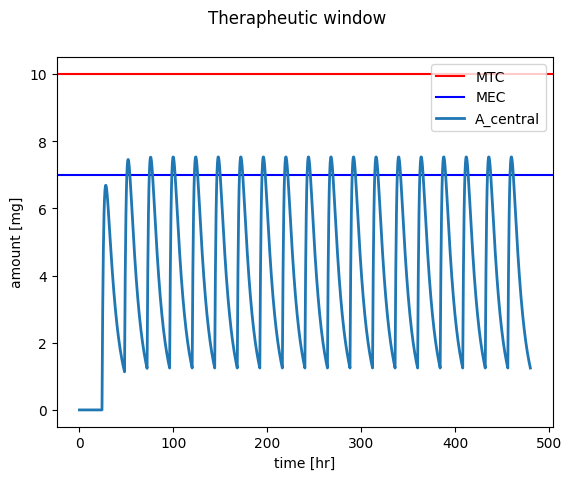
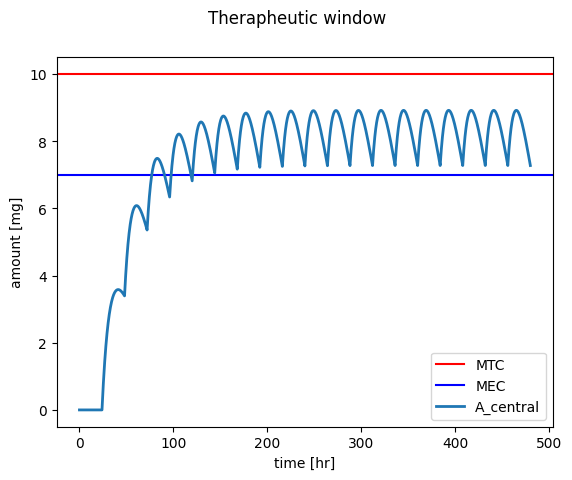
Built site for gh-pages

Changed region(s): [[0.1486, 0.125, 0.951, 0.8125], [0.8322, 0.8438, 0.951, 0.875], [0.743, 0.8438, 0.8024, 0.875]]

diff --git a/notebooks/course/05_multiple_dosing.html b/notebooks/course/05_multiple_dosing.html
@@ -433,7 +433,7 @@ pre > code.sourceCode > span > a:first-child::before { text-decoration: underlin
 <figcaption>Absorption Elimination Model</figcaption>
 </figure>
 </div>
-<div id="6e87423c" class="cell" data-execution_count="7">
+<div id="6e87423c" class="cell" data-execution_count="1">
 <div class="sourceCode cell-code" id="cb1"><pre class="sourceCode python code-with-copy"><code class="sourceCode python"><span id="cb1-1"><a href="#cb1-1" aria-hidden="true" tabindex="-1"></a><span class="im">import</span> numpy <span class="im">as</span> np</span>
 <span id="cb1-2"><a href="#cb1-2" aria-hidden="true" tabindex="-1"></a><span class="im">from</span> scipy.integrate <span class="im">import</span> odeint</span>
 <span id="cb1-3"><a href="#cb1-3" aria-hidden="true" tabindex="-1"></a><span class="im">from</span> matplotlib <span class="im">import</span> pylab <span class="im">as</span> plt</span>
@@ -495,7 +495,7 @@ pre > code.sourceCode > span > a:first-child::before { text-decoration: underlin
 <span id="cb1-59"><a href="#cb1-59" aria-hidden="true" tabindex="-1"></a>    df_all <span class="op">=</span> pd.concat(dfs)</span>
 <span id="cb1-60"><a href="#cb1-60" aria-hidden="true" tabindex="-1"></a>    <span class="cf">return</span> df_all</span></code><button title="Copy to Clipboard" class="code-copy-button"><i class="bi"></i></button></pre></div>
 </div>
-<div id="9f2d011b" class="cell" data-execution_count="8">
+<div id="9f2d011b" class="cell" data-execution_count="2">
 <div class="sourceCode cell-code" id="cb2"><pre class="sourceCode python code-with-copy"><code class="sourceCode python"><span id="cb2-1"><a href="#cb2-1" aria-hidden="true" tabindex="-1"></a><span class="co"># run simulation and plot results</span></span>
 <span id="cb2-2"><a href="#cb2-2" aria-hidden="true" tabindex="-1"></a>Dose_A <span class="op">=</span> <span class="fl">10.0</span>  <span class="co"># [mg]</span></span>
 <span id="cb2-3"><a href="#cb2-3" aria-hidden="true" tabindex="-1"></a>ka <span class="op">=</span> <span class="fl">0.5</span>  <span class="co"># [1/hr]</span></span>
@@ -544,27 +544,25 @@ pre > code.sourceCode > span > a:first-child::before { text-decoration: underlin
 <p>Monitoring drug levels in the body is often required for these drugs, and dosages may need to be adjusted based on individual patient response, metabolism, and excretion rates. This is especially relevant in multiple dosing regimens where the aim is to maintain a steady-state concentration of the drug within the therapeutic window.</p>
 <p>In summary, the therapeutic window is critical in drug therapy. It provides a guideline for effective and safe drug dosages. Staying within this window helps to achieve the therapeutic benefits of the drug while minimizing the risk of side effects and toxicity.</p>
 <p>We add the <strong>MEC</strong> and <strong>MTC</strong> lines to see if we can achieve the therapeutic range.</p>
-<div id="3db9f6d3" class="cell" data-execution_count="12">
-<div class="sourceCode cell-code" id="cb3"><pre class="sourceCode python code-with-copy"><code class="sourceCode python"><span id="cb3-1"><a href="#cb3-1" aria-hidden="true" tabindex="-1"></a><span class="co"># plot results</span></span>
-<span id="cb3-2"><a href="#cb3-2" aria-hidden="true" tabindex="-1"></a></span>
-<span id="cb3-3"><a href="#cb3-3" aria-hidden="true" tabindex="-1"></a><span class="co"># run simulation and plot results</span></span>
-<span id="cb3-4"><a href="#cb3-4" aria-hidden="true" tabindex="-1"></a>Dose_A <span class="op">=</span> <span class="dv">10</span>  <span class="co"># [mg]</span></span>
-<span id="cb3-5"><a href="#cb3-5" aria-hidden="true" tabindex="-1"></a>ka <span class="op">=</span> <span class="fl">0.5</span>  <span class="co"># [1/hr]</span></span>
-<span id="cb3-6"><a href="#cb3-6" aria-hidden="true" tabindex="-1"></a>ke <span class="op">=</span> <span class="fl">0.1</span>  <span class="co"># [1/hr]</span></span>
-<span id="cb3-7"><a href="#cb3-7" aria-hidden="true" tabindex="-1"></a>df <span class="op">=</span> simulate_multi_dosing(Dose_A, ka, ke)</span>
-<span id="cb3-8"><a href="#cb3-8" aria-hidden="true" tabindex="-1"></a></span>
-<span id="cb3-9"><a href="#cb3-9" aria-hidden="true" tabindex="-1"></a>f, ax <span class="op">=</span> plt.subplots(nrows<span class="op">=</span><span class="dv">1</span>, ncols<span class="op">=</span><span class="dv">1</span>)</span>
-<span id="cb3-10"><a href="#cb3-10" aria-hidden="true" tabindex="-1"></a>f.suptitle(<span class="st">"Therapheutic window"</span>)</span>
-<span id="cb3-11"><a href="#cb3-11" aria-hidden="true" tabindex="-1"></a></span>
-<span id="cb3-12"><a href="#cb3-12" aria-hidden="true" tabindex="-1"></a>ax.axhline(y<span class="op">=</span><span class="dv">10</span>, color<span class="op">=</span><span class="st">'r'</span>, linestyle<span class="op">=</span><span class="st">'-'</span>, label<span class="op">=</span><span class="st">"MTC"</span>)</span>
-<span id="cb3-13"><a href="#cb3-13" aria-hidden="true" tabindex="-1"></a>ax.axhline(y<span class="op">=</span><span class="dv">7</span>, color<span class="op">=</span><span class="st">'b'</span>, linestyle<span class="op">=</span><span class="st">'-'</span>, label<span class="op">=</span><span class="st">"MEC"</span>)</span>
-<span id="cb3-14"><a href="#cb3-14" aria-hidden="true" tabindex="-1"></a></span>
-<span id="cb3-15"><a href="#cb3-15" aria-hidden="true" tabindex="-1"></a>ax.plot(df.time, df[<span class="st">"A_central"</span>], linewidth<span class="op">=</span><span class="dv">2</span>, label<span class="op">=</span>names[<span class="dv">1</span>], color<span class="op">=</span>colors[<span class="dv">1</span>])</span>
-<span id="cb3-16"><a href="#cb3-16" aria-hidden="true" tabindex="-1"></a>ax.legend()</span>
-<span id="cb3-17"><a href="#cb3-17" aria-hidden="true" tabindex="-1"></a>ax.set_xlabel(<span class="st">"time [hr]"</span>)</span>
-<span id="cb3-18"><a href="#cb3-18" aria-hidden="true" tabindex="-1"></a>ax.set_ylabel(<span class="st">"amount [mg]"</span>)</span>
-<span id="cb3-19"><a href="#cb3-19" aria-hidden="true" tabindex="-1"></a></span>
-<span id="cb3-20"><a href="#cb3-20" aria-hidden="true" tabindex="-1"></a>plt.show()</span></code><button title="Copy to Clipboard" class="code-copy-button"><i class="bi"></i></button></pre></div>
+<div id="3db9f6d3" class="cell" data-execution_count="10">
+<div class="sourceCode cell-code" id="cb3"><pre class="sourceCode python code-with-copy"><code class="sourceCode python"><span id="cb3-1"><a href="#cb3-1" aria-hidden="true" tabindex="-1"></a><span class="co"># run simulation and plot results</span></span>
+<span id="cb3-2"><a href="#cb3-2" aria-hidden="true" tabindex="-1"></a>Dose_A <span class="op">=</span> <span class="dv">20</span>  <span class="co"># [mg]</span></span>
+<span id="cb3-3"><a href="#cb3-3" aria-hidden="true" tabindex="-1"></a>ka <span class="op">=</span> <span class="fl">0.03</span>  <span class="co"># [1/hr]</span></span>
+<span id="cb3-4"><a href="#cb3-4" aria-hidden="true" tabindex="-1"></a>ke <span class="op">=</span> <span class="fl">0.1</span>  <span class="co"># [1/hr]</span></span>
+<span id="cb3-5"><a href="#cb3-5" aria-hidden="true" tabindex="-1"></a>df <span class="op">=</span> simulate_multi_dosing(Dose_A, ka, ke)</span>
+<span id="cb3-6"><a href="#cb3-6" aria-hidden="true" tabindex="-1"></a></span>
+<span id="cb3-7"><a href="#cb3-7" aria-hidden="true" tabindex="-1"></a>f, ax <span class="op">=</span> plt.subplots(nrows<span class="op">=</span><span class="dv">1</span>, ncols<span class="op">=</span><span class="dv">1</span>)</span>
+<span id="cb3-8"><a href="#cb3-8" aria-hidden="true" tabindex="-1"></a>f.suptitle(<span class="st">"Therapheutic window"</span>)</span>
+<span id="cb3-9"><a href="#cb3-9" aria-hidden="true" tabindex="-1"></a></span>
+<span id="cb3-10"><a href="#cb3-10" aria-hidden="true" tabindex="-1"></a>ax.axhline(y<span class="op">=</span><span class="dv">10</span>, color<span class="op">=</span><span class="st">'r'</span>, linestyle<span class="op">=</span><span class="st">'-'</span>, label<span class="op">=</span><span class="st">"MTC"</span>)</span>
+<span id="cb3-11"><a href="#cb3-11" aria-hidden="true" tabindex="-1"></a>ax.axhline(y<span class="op">=</span><span class="dv">7</span>, color<span class="op">=</span><span class="st">'b'</span>, linestyle<span class="op">=</span><span class="st">'-'</span>, label<span class="op">=</span><span class="st">"MEC"</span>)</span>
+<span id="cb3-12"><a href="#cb3-12" aria-hidden="true" tabindex="-1"></a></span>
+<span id="cb3-13"><a href="#cb3-13" aria-hidden="true" tabindex="-1"></a>ax.plot(df.time, df[<span class="st">"A_central"</span>], linewidth<span class="op">=</span><span class="dv">2</span>, label<span class="op">=</span>names[<span class="dv">1</span>], color<span class="op">=</span>colors[<span class="dv">1</span>])</span>
+<span id="cb3-14"><a href="#cb3-14" aria-hidden="true" tabindex="-1"></a>ax.legend()</span>
+<span id="cb3-15"><a href="#cb3-15" aria-hidden="true" tabindex="-1"></a>ax.set_xlabel(<span class="st">"time [hr]"</span>)</span>
+<span id="cb3-16"><a href="#cb3-16" aria-hidden="true" tabindex="-1"></a>ax.set_ylabel(<span class="st">"amount [mg]"</span>)</span>
+<span id="cb3-17"><a href="#cb3-17" aria-hidden="true" tabindex="-1"></a></span>
+<span id="cb3-18"><a href="#cb3-18" aria-hidden="true" tabindex="-1"></a>plt.show()</span></code><button title="Copy to Clipboard" class="code-copy-button"><i class="bi"></i></button></pre></div>
 <div class="cell-output cell-output-display">
 <div>
 <figure class="figure">
